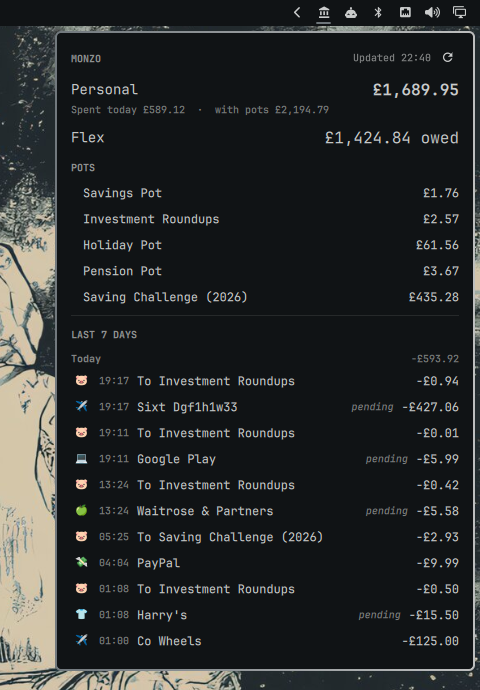
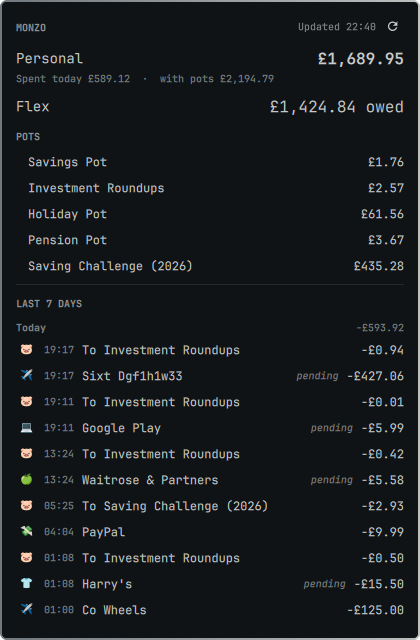
Crop screenshot to the panel; install.sh never overwrites an existing CLI

Changed region(s): [[0.0, 0.0, 1.0, 1.0], [0.4333, 0.0938, 0.681, 0.1875], [0.3714, 0.0938, 0.4333, 0.1562]]

diff --git a/README.md b/README.md
@@ -15,7 +15,7 @@ Click the bank icon in the bar and a panel opens with:
 The data refreshes each time you open the panel. Nothing polls in the background.
 
 <p align="center">
-  <img src="docs/screenshot.png" alt="The Monzo panel open below the bank icon in the Omarchy bar" width="420">
+  <img src="docs/screenshot.png" alt="The Monzo panel: balances, pots and the last 7 days of transactions" width="420">
 </p>
 
 > **Personal use only.** Monzo's Developer API is not for public apps: a
@@ -90,7 +90,8 @@ cd ~/Projects/monzo-omarchy
 
 `install.sh` copies the plugin to
 `~/.config/omarchy/plugins/chromaticranger.monzo/`, links the CLI to
-`~/.local/bin/monzo-omarchy`, and enables the widget.
+`~/.local/bin/monzo-omarchy` (skipped, with a warning, if something else
+is already there), and enables the widget.
 
 Either way, a bank icon (<img src="docs/bar-icon.png" alt="bank icon" height="16">)
 should appear on the right of the bar. If it doesn't, see
